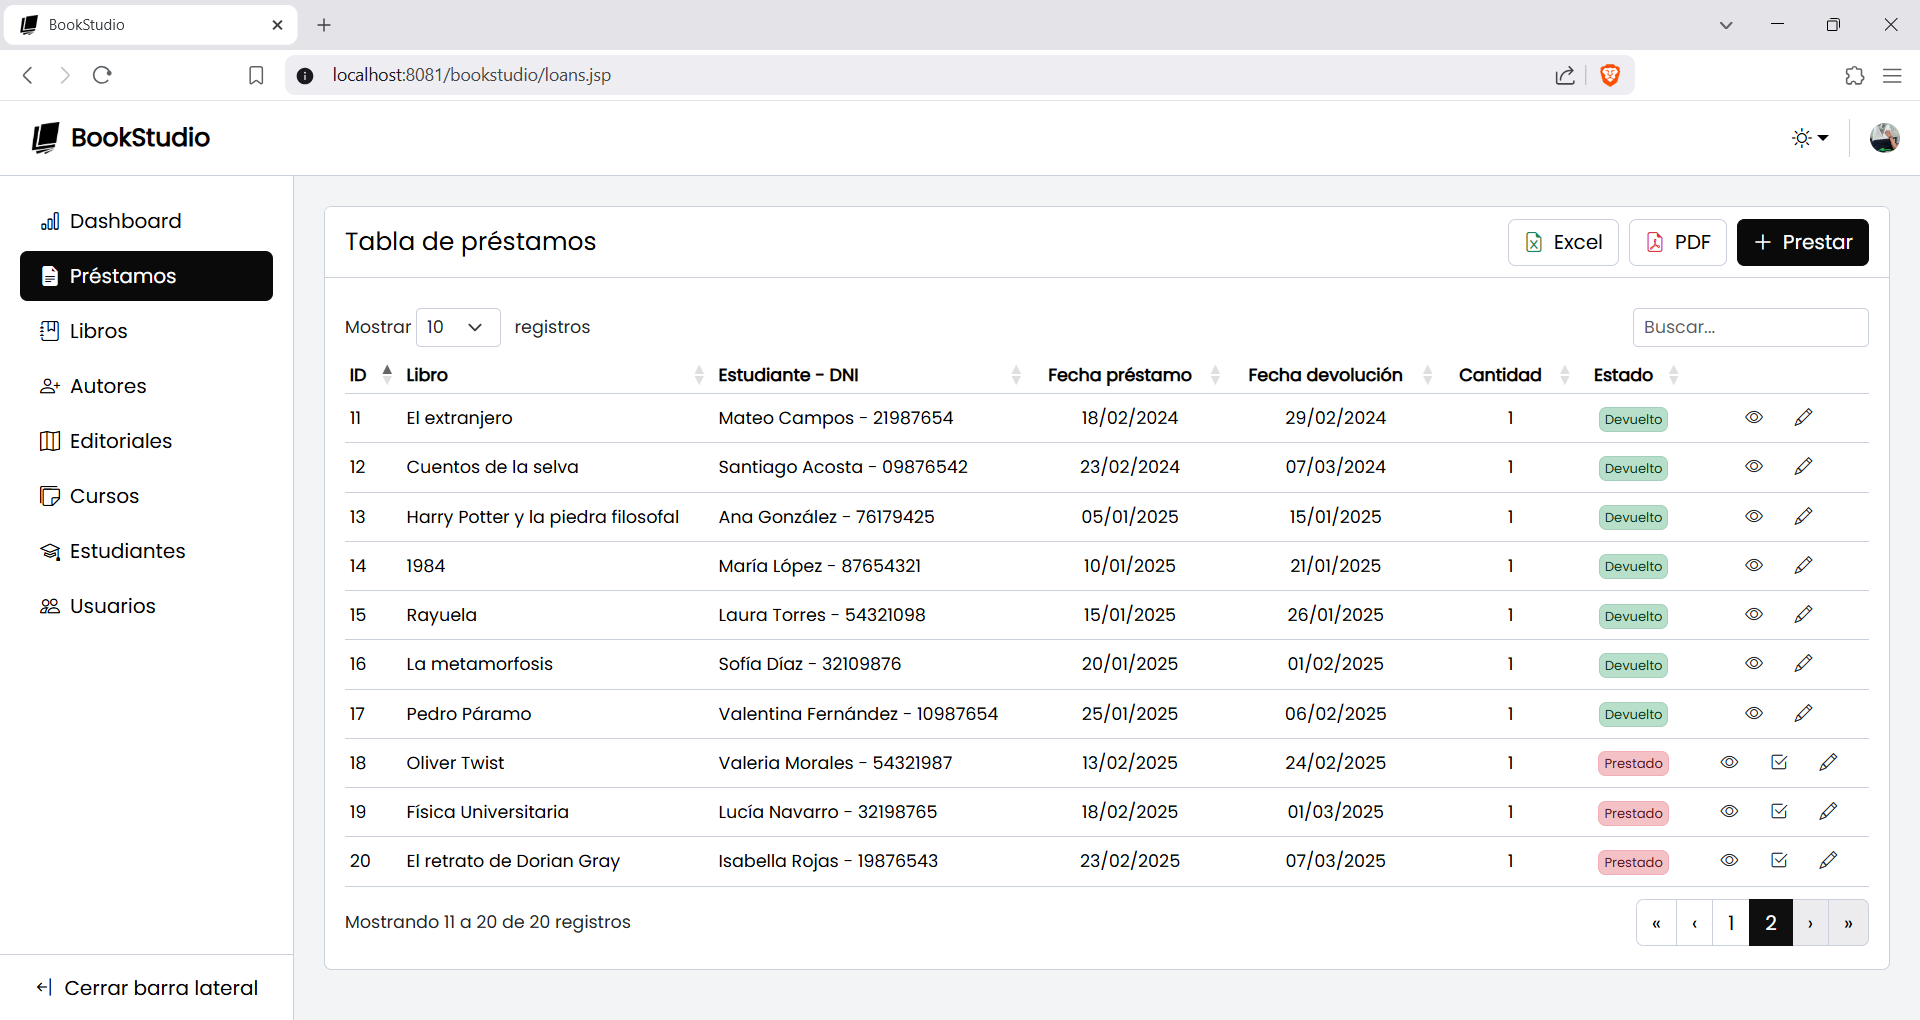
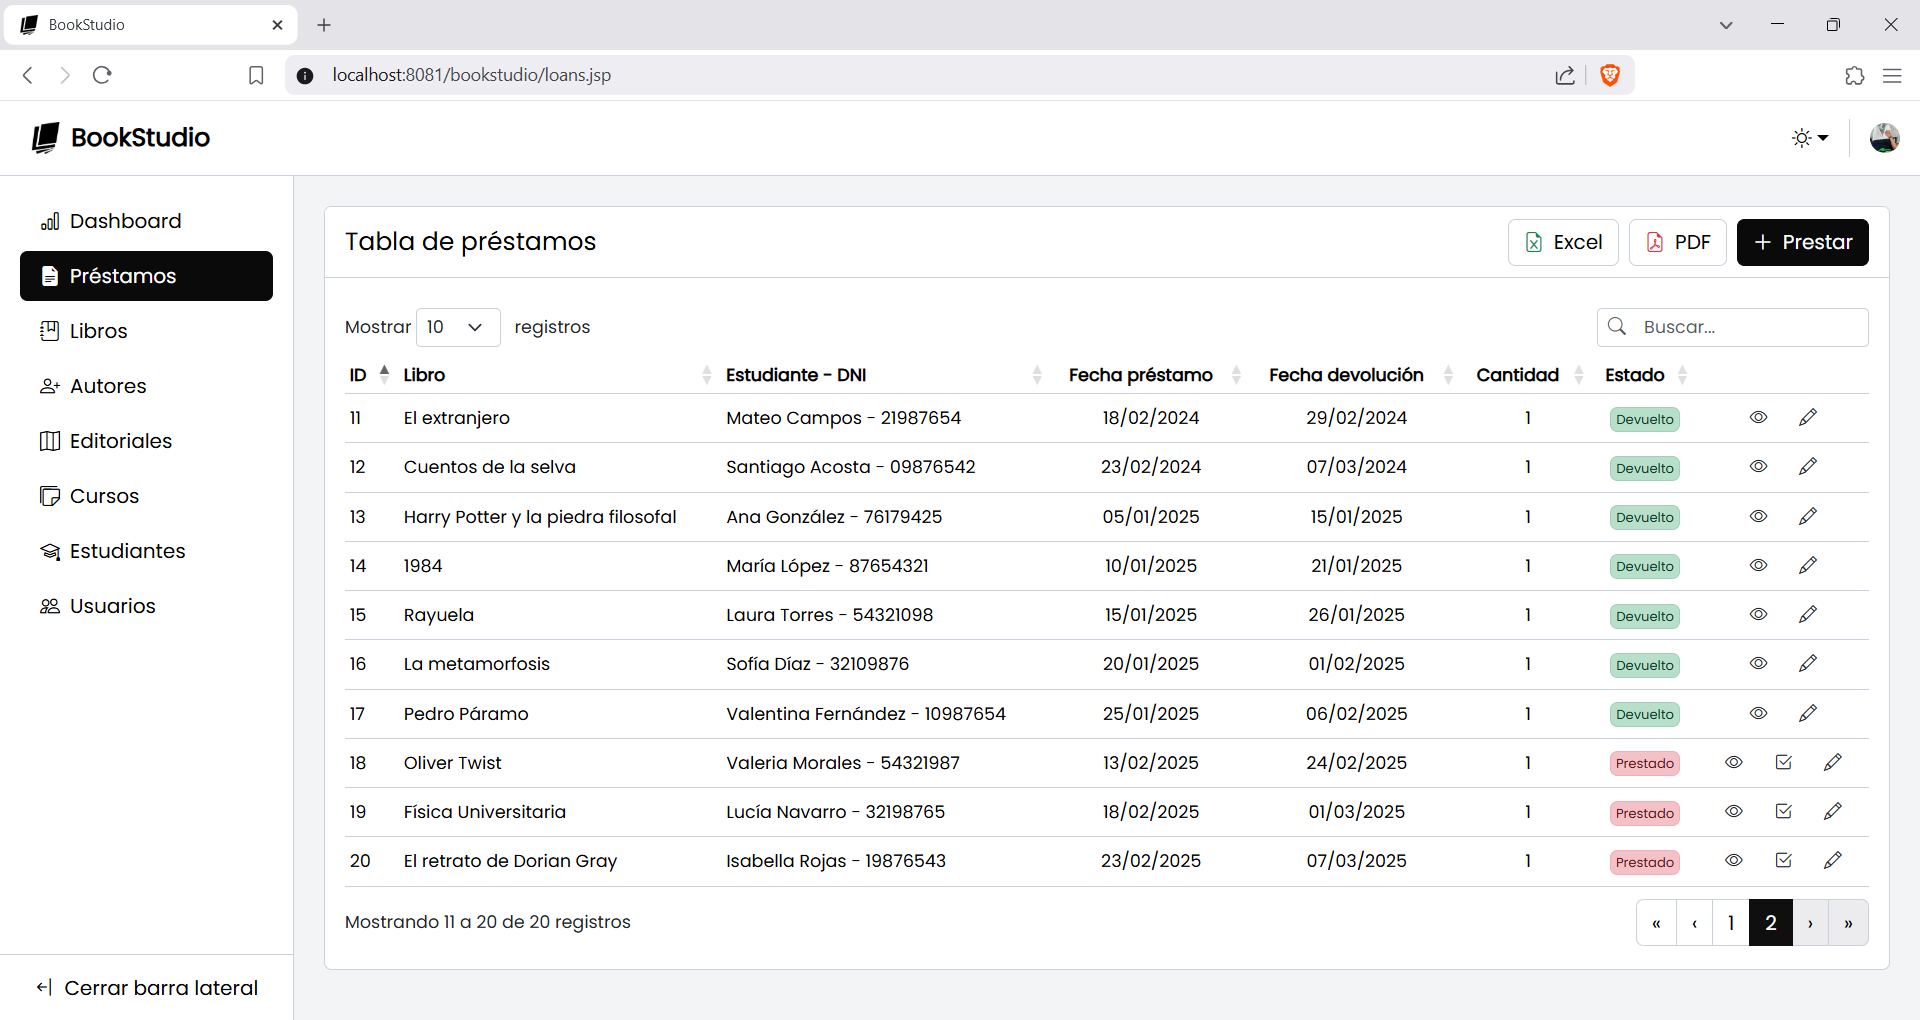
chore: rename files, update README, and refine styles

diff --git a/src/main/webapp/css/index-styles.css b/src/main/webapp/css/index-styles.css
@@ -624,3 +624,40 @@ textarea {
 [data-bs-theme="light"] .alert-danger {
     background-color: #f4c2c6 !important;
 }
+
+/* Configure search icon in DataTables search input */
+.dt-search .input-group-text {
+	border-right: 0 !important;
+	border-top-right-radius: 0 !important;
+	border-bottom-right-radius: 0 !important;
+	transition: box-shadow 0.2s ease, border-color 0.2s ease;
+}
+
+.dt-search .form-control {
+	border-left: 0 !important;
+}
+
+.dt-search .form-control:focus {
+  outline: none !important;
+  box-shadow: 1px 1px 0 0 var(--bs-border-color), 
+              1px -1px 0 0 var(--bs-border-color), 
+              1px 0 0 0 var(--bs-border-color);
+}
+
+.dt-search .input-group-text:has(+.form-control:focus) {
+  box-shadow: -1px 1px 0 0 var(--bs-border-color), 
+              -1px -1px 0 0 var(--bs-border-color), 
+              0 1px 0 0 var(--bs-border-color), 
+              0 -1px 0 0 var(--bs-border-color);
+}
+
+/* Adjust clear button (X) */
+[data-bs-theme="light"] .dt-search .form-control::-webkit-search-cancel-button,
+[data-bs-theme="light"] .bs-searchbox input::-webkit-search-cancel-button {
+	filter: brightness(0);
+}
+
+.dt-search .form-control::-webkit-search-cancel-button,
+.bs-searchbox input::-webkit-search-cancel-button {
+	cursor: pointer;
+}

diff --git a/src/main/webapp/utils/datatables-setup.js b/src/main/webapp/utils/datatables-setup.js
@@ -34,6 +34,12 @@ function setupDataTable(tableId) {
 		initComplete: function() {
 			toggleButtonAndSpinner('loaded');
 			$('#tableContainer').removeClass('d-none');
+			
+			let $dtSearch = $('.dt-search');
+			$dtSearch.find('label').remove();
+			
+			$dtSearch.addClass('input-group input-group-sm');
+			$dtSearch.prepend('<span class="input-group-text bg-body-secondary"><i class="bi bi-search text-muted"></i></span>');
 		}
 	});
 

diff --git a/README.md b/README.md
@@ -31,19 +31,32 @@
 BookStudio is a comprehensive web-based library management system designed for managing book loans at a fictional university library. The primary focus is on streamlining the lending process with clear status tracking (loaned/returned).
 
 The system provides functionalities such as:
-- **User Authentication**:
-  - Login
-  - Forgot Password
-  - Reset Password
-- **Dashboard** for managing:
-  - Loans
-  - Books
-  - Authors
-  - Publishers
-  - Courses
-  - Students
-  - Users
-  - Profile
+
+- **User Authentication**:  
+  - Login  
+  - Forgot Password  
+  - Reset Password  
+
+- **Dashboard**:  
+  - Provides an overview of key data from the system's tables, including loan statistics and report charts.  
+
+- **Management Views (CRUDs)** for:  
+  - Loans  
+  - Books  
+  - Authors  
+  - Publishers  
+  - Courses  
+  - Students  
+  - Users  
+
+- **Profile  Management**:  
+  - Users can view and update their profile information.  
+
+- **Report Generation**:  
+  - For each view (data table), you can generate a report in PDF or Excel format, making data export and analysis straightforward.  
+
+- **Loan Tickets**:  
+  - Each time a new loan is registered, the system automatically generates a ticket or receipt confirming the transaction.  
 
 The system includes **light and dark modes**.
 
